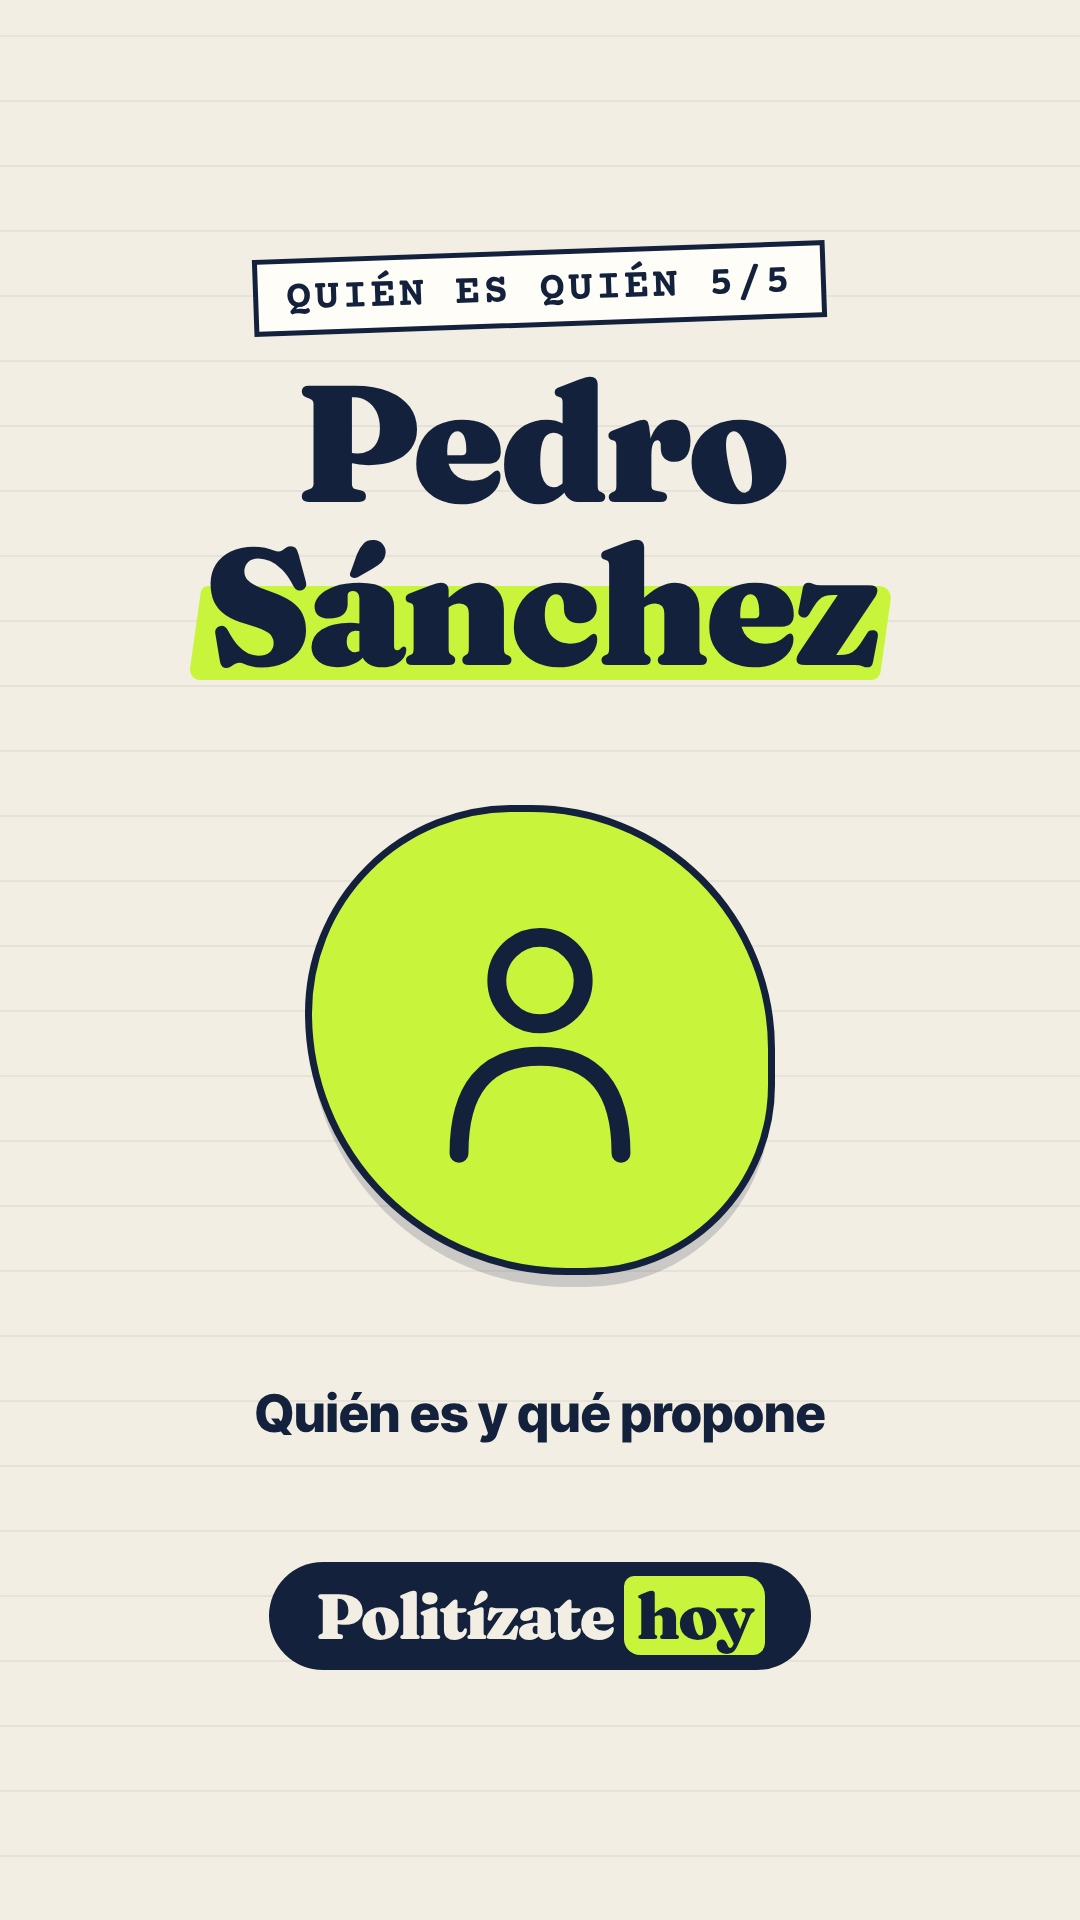
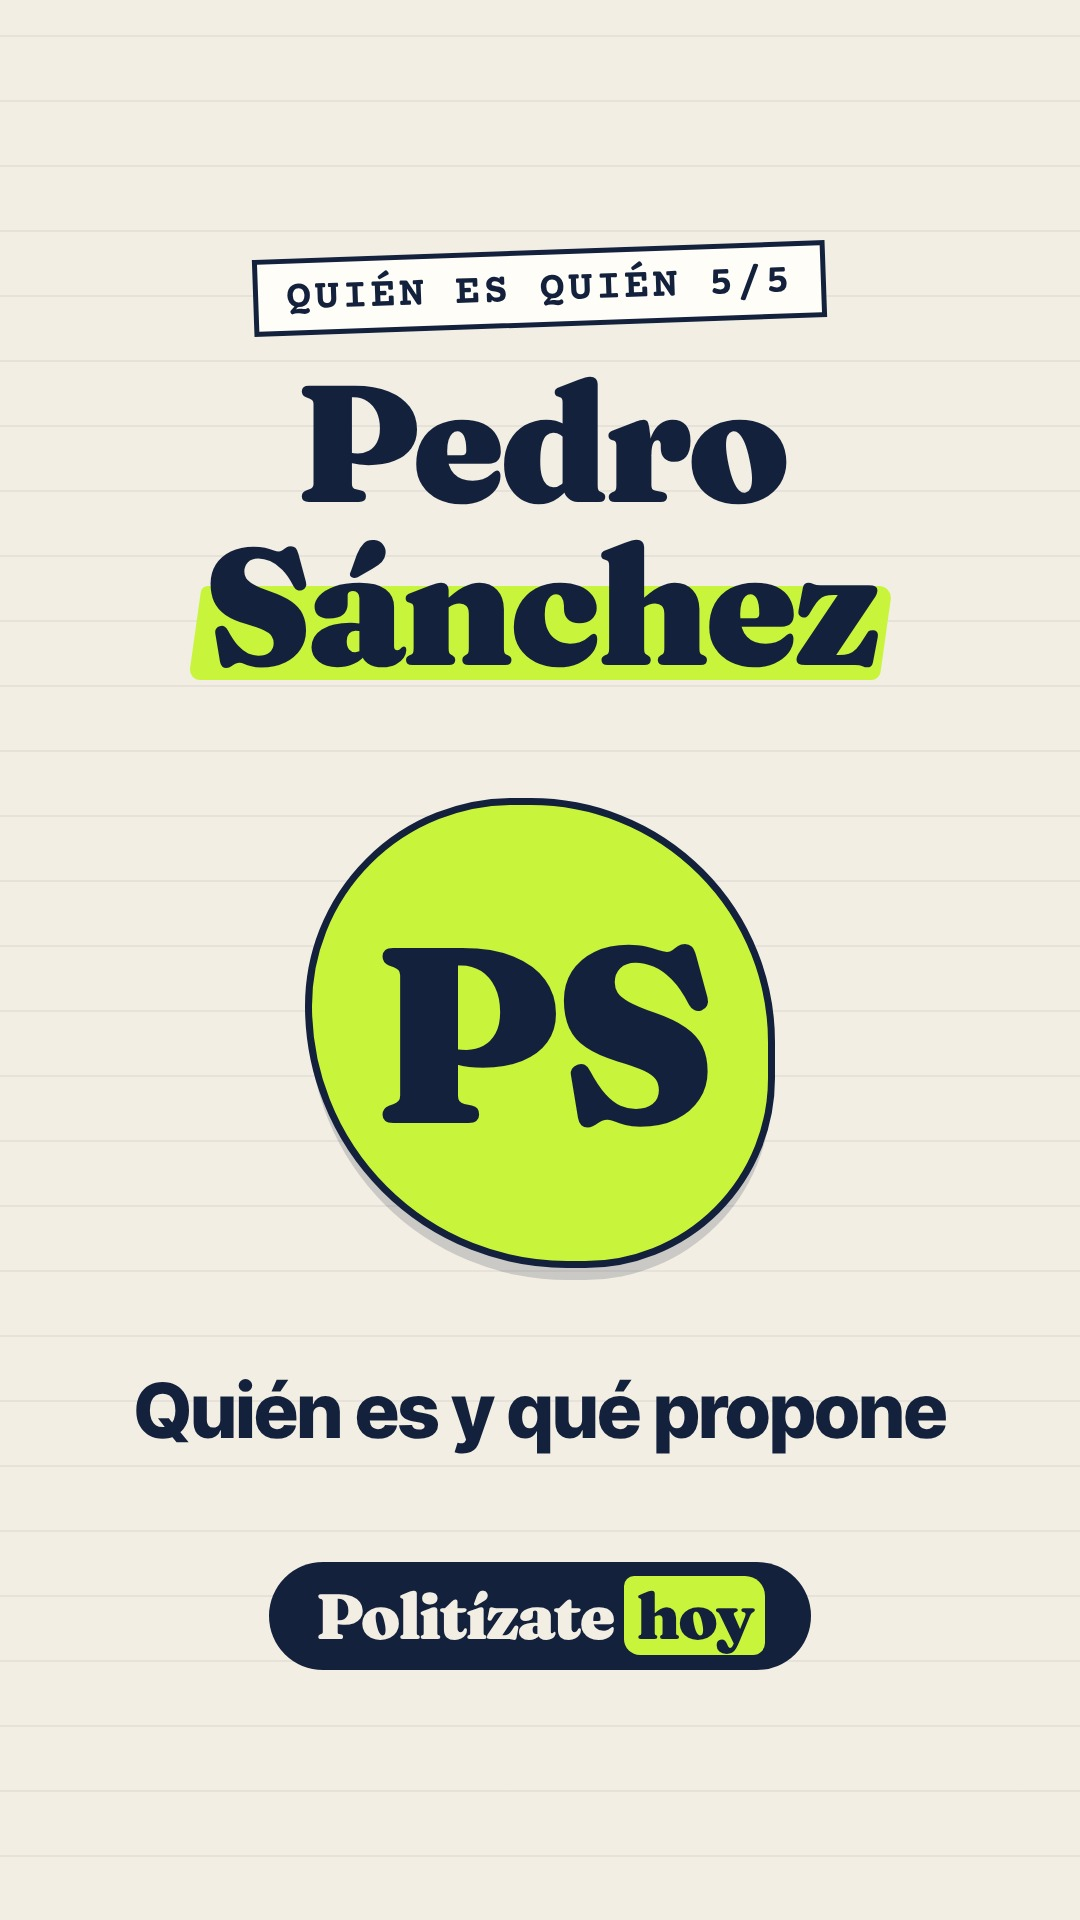
Portadas: dato grande en el círculo, iniciales en Quién es quién, subtítulo legible; portadas nuevas de pendientes y reserva
Claude-Session: https://claude.ai/code/session_01EQgpbid6Z6ejkRKtKHbqA2

diff --git a/engine/slp.html b/engine/slp.html
@@ -139,8 +139,8 @@ function render(t){
 #cover .tit .mk i{transform:scaleX(1) skewX(-8deg)!important}
 #cover .vis{width:470px;height:470px;border-radius:46% 54% 42% 58%;background:var(--mark);display:flex;align-items:center;justify-content:center;border:7px solid var(--ink);box-shadow:0 16px 0 -4px rgba(20,33,61,.18)}
 #cover .vis svg{width:270px;height:270px}
-#cover .vis .big{font:900 230px/1 F;letter-spacing:-8px}
-#cover .sub{font:800 52px/1.15 I;text-align:center;margin-top:-10px}
+#cover .vis .big{font:900 230px/1 F;letter-spacing:-8px;text-align:center;white-space:nowrap}
+#cover .sub{font:800 76px/1.08 I;text-align:center;margin-top:-10px;max-width:900px;letter-spacing:-1px}
 #cover .brand{background:var(--ink);border-radius:60px;padding:22px 46px;font:900 64px/1 F;color:#F3EEE3;letter-spacing:-2px}
 #cover .brand b{background:var(--mark);color:var(--ink);padding:0 12px;border-radius:10px 20px 12px 16px;font-weight:900}
 #cover.serio .vis{background:#E9E4D6}
@@ -157,7 +157,13 @@ async function renderCover(g){
  c.querySelector('.ser').textContent=p.serie||((g.header||{}).tag||'').split('·')[0].trim();
  const tt=p.titulo||head; const t=c.querySelector('.tit'); t.innerHTML=mk(tt);
  const n=tt.replace(/\*/g,'').length; t.style.fontSize=(n>26?122:n>16?140:166)+'px';
- const v=c.querySelector('.vis'); v.innerHTML=p.grande?`<div class="big">${p.grande}</div>`:(ICO[ic]||'');
+ let gr=p.grande;
+ if(!gr&&ic==='user'){ // quién es quién: iniciales en vez del muñequito
+  const w=tt.replace(/[*¿?]/g,'').split(/\s+/).filter(x=>x&&x[0]===x[0].toUpperCase()&&/\p{L}/u.test(x[0]));
+  gr=(w.length>1?w[0][0]+w[w.length-1][0]:(w[0]||'').slice(0,2)).toUpperCase();
+ }
+ const v=c.querySelector('.vis'); v.innerHTML=gr?`<div class="big">${gr}</div>`:(ICO[ic]||'');
+ if(gr){const L=[...gr].length; v.querySelector('.big').style.fontSize=(L===1?360:L<=2?250:L<=3?210:L<=4?170:L<=6?120:96)+'px';}
  const sb=c.querySelector('.sub'); sb.textContent=p.sub||''; sb.style.display=p.sub?'block':'none';
  await document.fonts.ready;
 }

diff --git a/INSTRUCCIONES.md b/INSTRUCCIONES.md
@@ -74,6 +74,10 @@ Momentos ya conocidos: **13-N**, Jordi Wild publica en The Wild Project sus entr
 ## Portadas (Nicks, 30-O: las de antes eran feas)
 `crear.sh` genera `videos/<id>.jpg` con `engine/cover.js` (diseño fijo: serie arriba, título grande con fosforito, mancha con icono, píldora de marca; todo dentro del recorte 3:4 de la cuadrícula de Instagram). Cada guion lleva `"portada": {"serie", "titulo" (con *marca*), "icono" o "grande" (un número/texto corto en vez de icono), "sub" (5–7 palabras)}`; si falta algo, se saca de la cabecera y del primer titular. Revisa la portada antes de programar: el icono tiene que tener sentido (nada de `doc` tachado o `person` tachado para cosas neutras). Iconos: rings, kids, house, doc, envelope, calendar, laptop, train, clock, phone, plane, question, urna, user.
 
+
+**Portadas (desde 3-N):** el círculo lleva un DATO, no un icono genérico. Pon siempre `portada.grande` con la cifra, fecha o palabra clave del vídeo (p. ej. "203", "69", "28-N", "4 h", "×3", "DNI"; máx. ~6 caracteres). En "Quién es quién" (icono user) salen solas las iniciales del título (PS, AF…). Icono solo si de verdad no hay dato. `sub` corto (≤ 32 caracteres): ahora se ve a 76 px. Nada de fotos de políticos (derechos de imagen).
+Series "Quién es quién": prioriza candidatos principales (Sánchez, Feijóo, Abascal, Díaz); los secundarios rinden mucho menos (Colau 41 views vs Feijóo 307).
+
 ## Tragedias y sucesos graves
 Con víctimas (accidentes, atentados, catástrofes): `"tono": "serio"` en el guion (sin música, sin sellos de broma), etiquetas de la barra con `"clauseLabels"` (p. ej. LO QUE SE SABE / LOS AUDIOS / LO QUE NO SE SABE) en vez de cláusulas y letra pequeña, cifras atribuidas y con hora, nada de culpables mientras haya investigación, y nunca imágenes o detalles morbosos.
 
